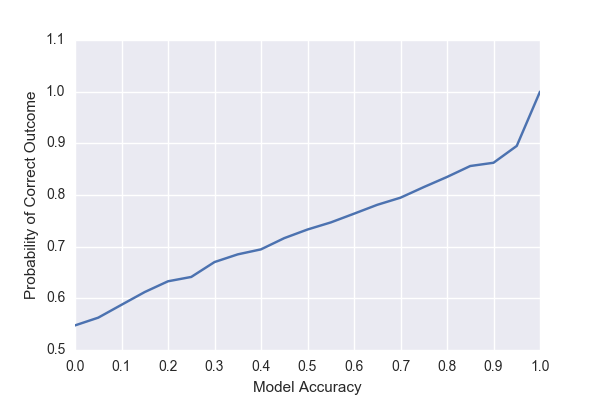
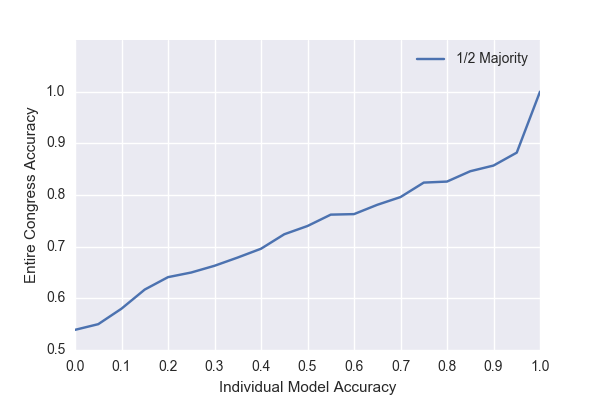
new stats fig

diff --git a/app/templates/index.html b/app/templates/index.html
@@ -71,7 +71,7 @@
       <div class="header">
 	<h4>Correct Prediction Probability</h4>
       </div>
-      <img src="/static/img/model_performance2.png"
+      <img src="/static/img/model_performance.png"
 	   width="480"
 	   height="400">
       <p><small>This model will correctly predict the
